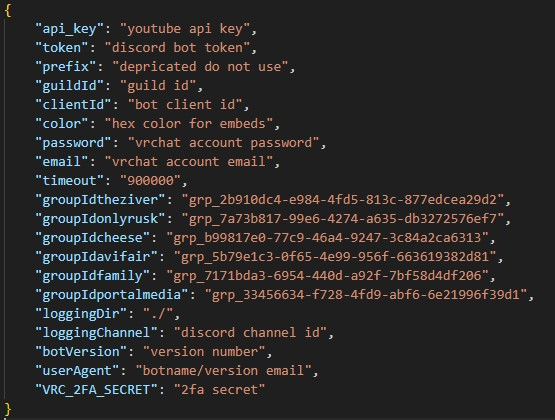
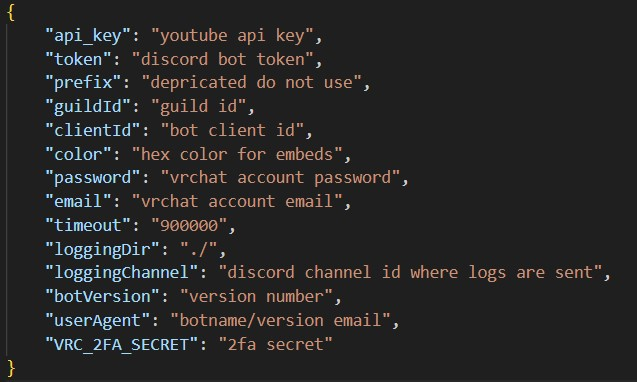
updated README, fixed missing import in vrchat class,  moved group id's to seperate json

Changed region(s): [[0.0613, 0.0576, 0.9495, 0.9503], [0.0, 0.0, 0.0306, 1.0], [0.9495, 0.7199, 0.9802, 0.7487]]

diff --git a/Events/ready.js b/Events/ready.js
@@ -1,6 +1,7 @@
 const Event = require("../Structures/Event.js");
 
 const config = require("../Data/config.json");
+const groupConfig = require("../Data/groupConfig.json");
 
 const colors = require('colors');
 
@@ -25,31 +26,25 @@ module.exports = new Event("ready",async client => {
     console.log(`Discord logged in as ${client.user.tag}`.cyan);
     client.user.setActivity("/help");
     setInterval(() => intervalPing(client), 60000);
-    // try {
-        setInterval( async () => {
-            try {
-                await groupMemberCount(client, config.groupIdtheziver, "Zivergroup")
-                await groupMemberCount(client, config.groupIdonlyrusk, "Onlyruskgroup")
-                await groupMemberCount(client, config.groupIdcheese, "Cheesegroup")
-                await groupMemberCount(client, config.groupIdavifair, "Avifairgroup")
-                await groupMemberCount(client, config.groupIdfamily, "Familygroup")
-                await groupMemberCount(client, config.groupIdportalmedia, "Portalgroup")
-            } catch (error) {
-                console.log("something went wrong with groupMemberCount Event")
-                sendServerErrorDC(client, "groupMemberCount", error)
-                await connect(new Date)
-            }
-        } , 300000);
-        await groupMemberCount(client, config.groupIdtheziver, "Zivergroup")
-        await groupMemberCount(client, config.groupIdonlyrusk, "Onlyruskgroup")
-        await groupMemberCount(client, config.groupIdcheese, "Cheesegroup")
-        await groupMemberCount(client, config.groupIdavifair, "Avifairgroup")
-        await groupMemberCount(client, config.groupIdfamily, "Familygroup")
-        await groupMemberCount(client, config.groupIdportalmedia, "Portalgroup")
-        //300000
-    // } catch (error) {
-    //     console.log("something went wrong with groupMemberCount")
-    //     sendServerErrorDC(client, "groupMemberCount", error)
-    //     await connect(new Date)
-    // }
+    
+    setInterval( async () => {
+        try {
+            await groupMemberCount(client, groupConfig.groupIdtheziver, "Zivergroup")
+            await groupMemberCount(client, groupConfig.groupIdonlyrusk, "Onlyruskgroup")
+            await groupMemberCount(client, groupConfig.groupIdcheese, "Cheesegroup")
+            await groupMemberCount(client, groupConfig.groupIdavifair, "Avifairgroup")
+            await groupMemberCount(client, groupConfig.groupIdfamily, "Familygroup")
+            await groupMemberCount(client, groupConfig.groupIdportalmedia, "Portalgroup")
+        } catch (error) {
+            console.log("something went wrong with groupMemberCount Event")
+            sendServerErrorDC(client, "groupMemberCount", error)
+            await connect(new Date)
+        }
+    } , 300000);
+    await groupMemberCount(client, groupConfig.groupIdtheziver, "Zivergroup")
+    await groupMemberCount(client, groupConfig.groupIdonlyrusk, "Onlyruskgroup")
+    await groupMemberCount(client, groupConfig.groupIdcheese, "Cheesegroup")
+    await groupMemberCount(client, groupConfig.groupIdavifair, "Avifairgroup")
+    await groupMemberCount(client, groupConfig.groupIdfamily, "Familygroup")
+    await groupMemberCount(client, groupConfig.groupIdportalmedia, "Portalgroup")
 });

diff --git a/Classes/vrchat.js b/Classes/vrchat.js
@@ -13,7 +13,7 @@ const totp = require("totp-generator");
 const fs = require('fs');
 
 // const { dbInsert, dbFindAndDelete, dbFindAndBan, dbFindAndUnban, dbFind } = require("./mongo.js");
-const { logError } = require("./errorLogging.js");
+const { logError, sendServerErrorDC } = require("./errorLogging.js");
 
 colors.enable()
 

diff --git a/README.md b/README.md
@@ -81,6 +81,20 @@ module.exports = new SlashCommand({
 });
 ```
 
+### How to add a group
+
+To add a new group, add a new key-value pair to the object in groupConfig.json.
+The key should be the name of the group, and the value should be the group ID.
+The group ID can be found in the URL of the group's page on the [VRChat website](https://vrchat.com). 
+For example:
+![image](/MD/Images/GroupConfig.json.png)
+Than add paste the following line twice into Events/ready.js
+```js
+await groupMemberCount(client, groupConfig.GROUPNAME, "GROUPNAME")
+```
+Example:
+![image](/MD/Images/Ready.js.png)
+
 ## How to run the bot
 1. first make sure you have Node installed, if not you can download it from [here](https://nodejs.org/en) and create a bot at the [Discord developer portal](https://discord.com/developers/applications).
 
